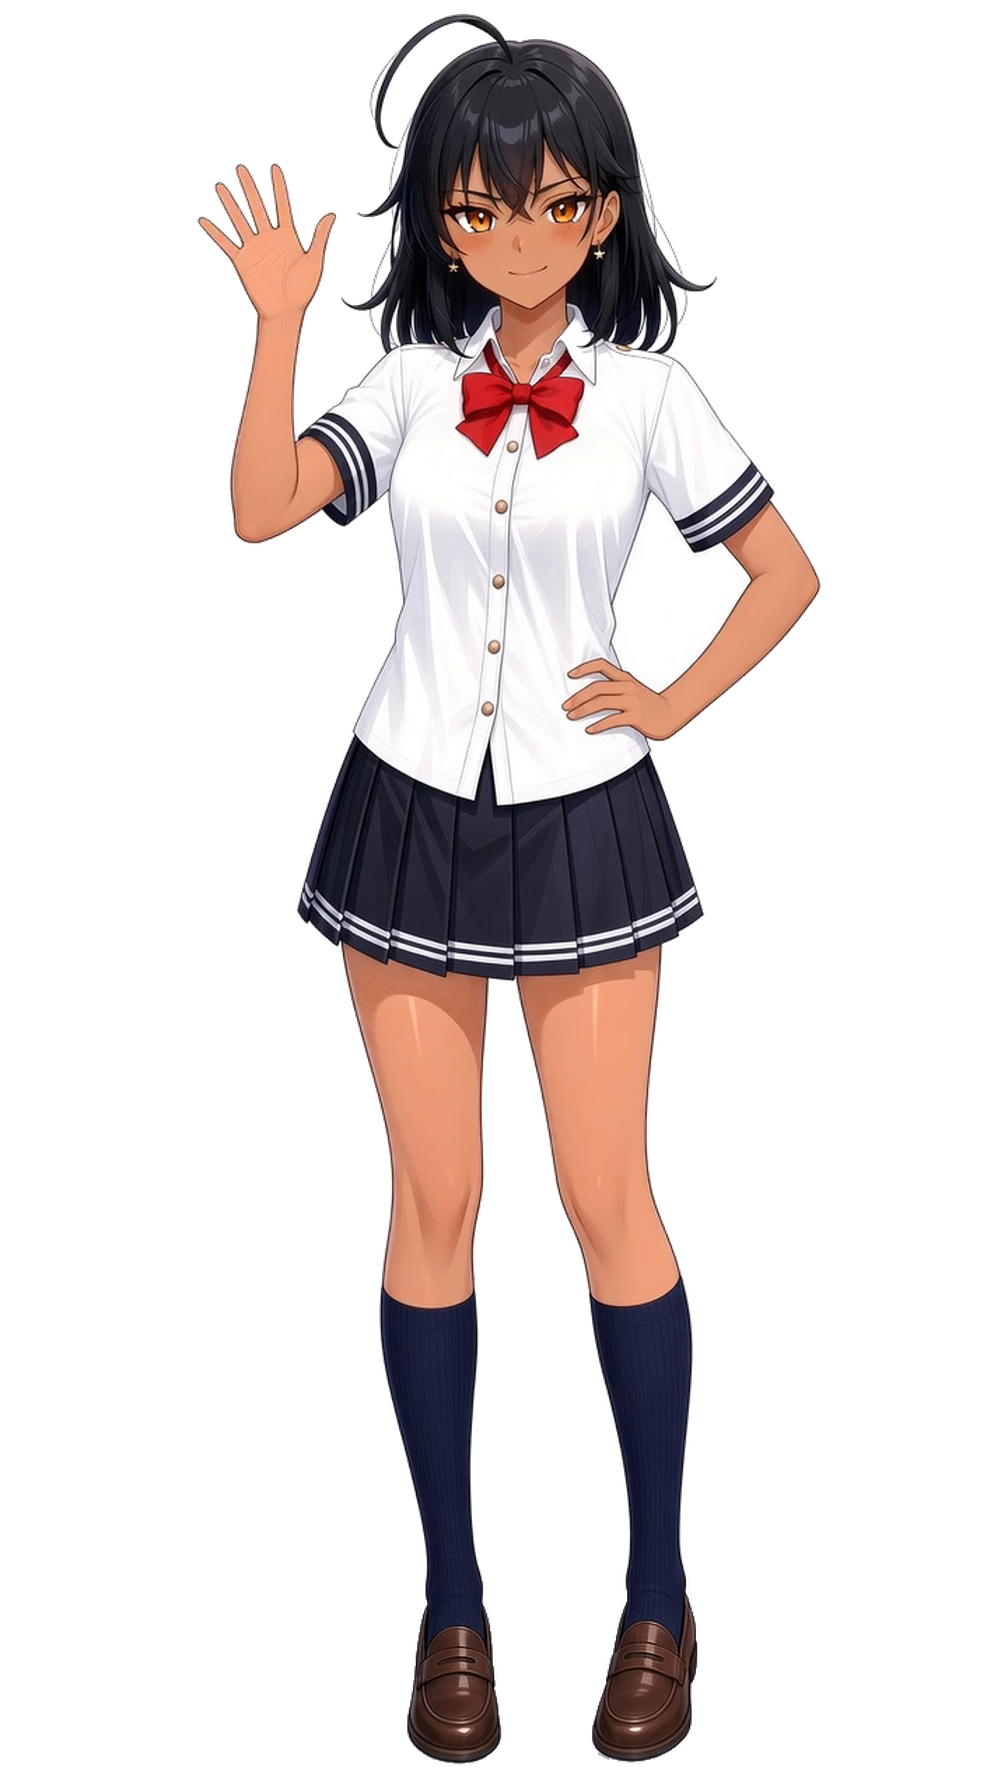
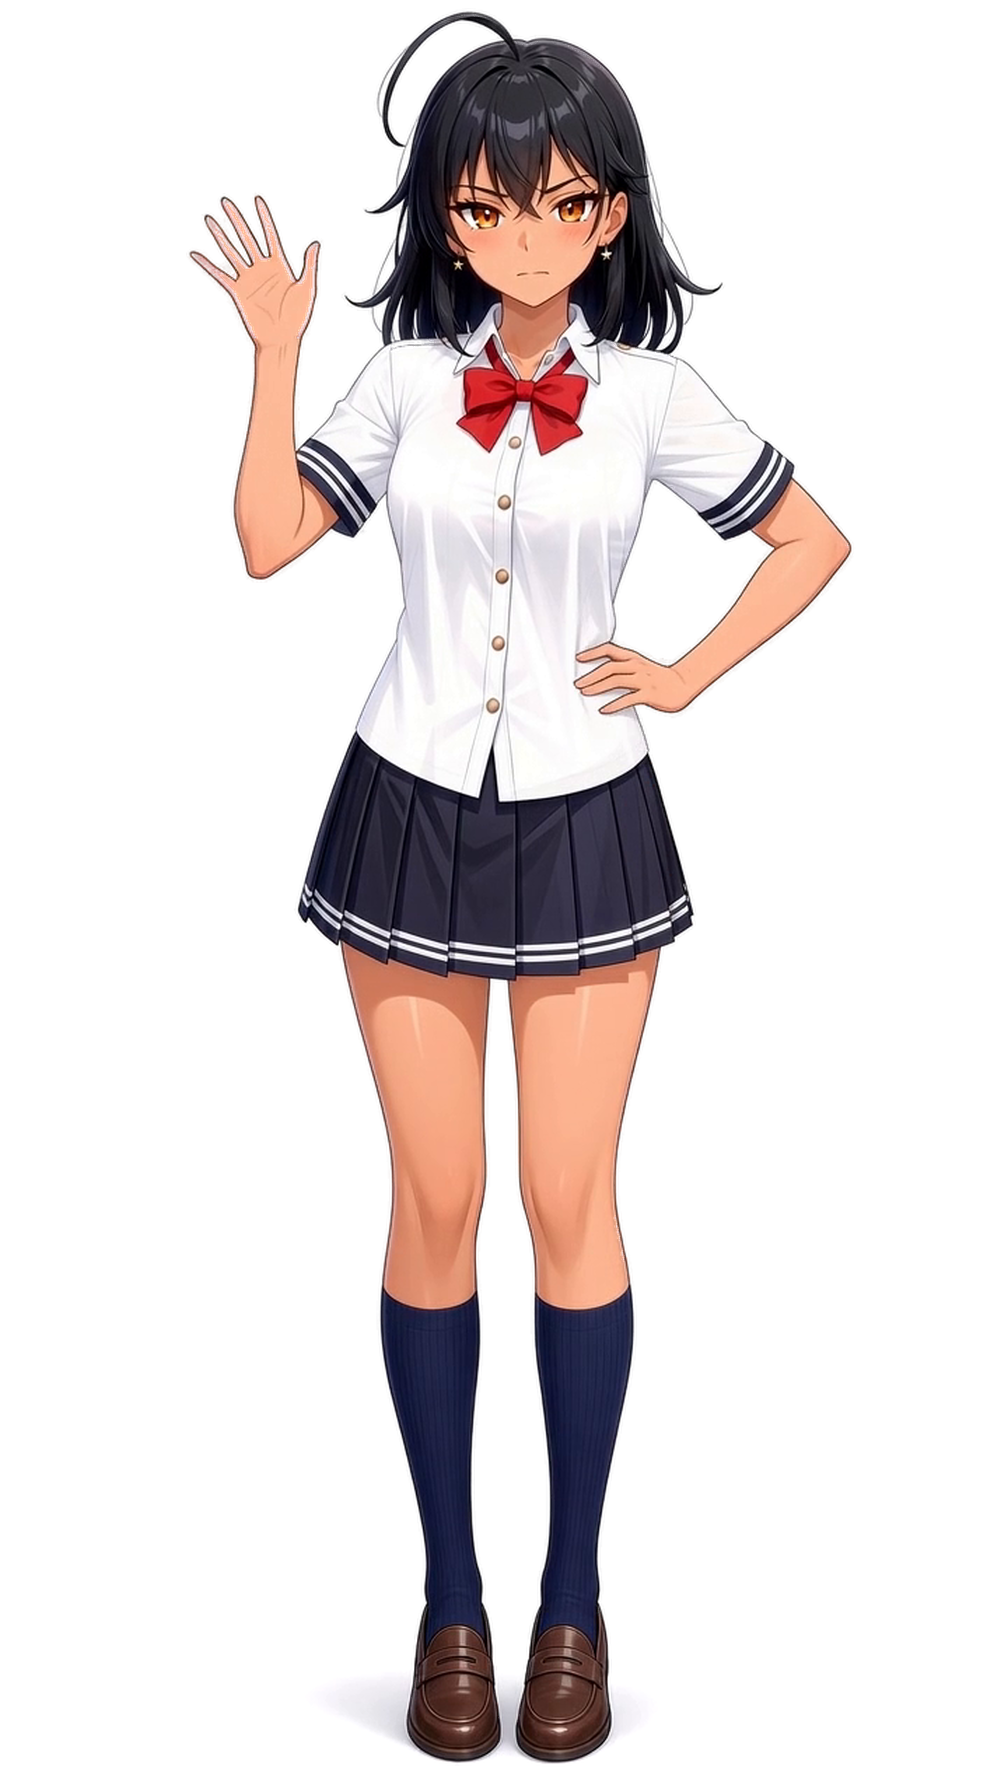
wave_official.png: TyLo's 2026-10-06 wave still (white-matte cut, x1.4 onto idle canvas, no re-tone)
- Replace the retoned dark sheet with TyLo's approved still (right hand waving, left hand on hip,
  glare, sailor uniform). Same white-bg matte as the wave/smug bridge sheets; uniform x1.4
  (720x1280 -> 1008x1792), feet line identical to idle.png (sole/shoes/feet x deltas 0).
- Pre-cut list + sha pin (versioned ?v=rgba3 URL, no runtime punch). Not on the Wave key:
  the key stays the 1110/1114 video bridge + wave1110_hold.webp (unchanged).
- retone-wave-official.py refuses to run without --force so it cannot re-colour the still.
- POSING.md / README updated.

diff --git a/src/lib/pre-cut-alpha.test.ts b/src/lib/pre-cut-alpha.test.ts
@@ -104,6 +104,8 @@ const POSE_SHEET_SHA256: Record<string, string> = {
   // Smug hold (paste-15): 1085 frame 48 (2.000 s), the last frame of the intro clip.
[2 lines of base64/hex data omitted]
+  // TyLo's 2026-10-06 wave still: white-matte cut, uniform x1.4 to the 1008x1792 idle canvas, no re-tone.
[1 lines of base64/hex data omitted]
 };
 
 /** The two smug clips (paste-15): animated AVIF, AV1 + alpha, 24 fps, no audio; pinned bytes. */
@@ -204,7 +206,7 @@ describe("pre-cut RGBA idle + blink sheets", () => {
   });
 
   it("holds back the sheets whose edges are not chosen yet", () => {
-    for (const file of ["rai/three_quarter.png", "rai/wave_official.png", "star-rai/poses/turn-away.png", "star-rai/point-front.png"]) {
+    for (const file of ["rai/three_quarter.png", "star-rai/poses/turn-away.png", "star-rai/point-front.png"]) {
       assert.equal((PRE_CUT_ALPHA_FILES as readonly string[]).includes(file), false, file);
     }
   });

diff --git a/src/lib/rai.ts b/src/lib/rai.ts
@@ -623,6 +623,9 @@ export const PRE_CUT_ALPHA_FILES = [
   "rai/middle_finger.png",
   "rai/scold_official.png",
   "rai/tired_official.png",
+  // TyLo's 2026-10-06 wave still (white-matte cut, x1.4 onto the idle canvas). Not on the Wave key:
+  // that key is the 1110/1114 bridge + wave1110_hold.webp.
+  "rai/wave_official.png",
   "rai/peace.png",
   "rai/side_profile.png",
   "rai/three_quarter_left.png",

diff --git a/scripts/retone-wave-official.py b/scripts/retone-wave-official.py
@@ -1,5 +1,8 @@
 #!/usr/bin/env python3
-"""Retone official full-body wave skin to the live plate cheek, punch studio white.
+"""SUPERSEDED 2026-10-06: public/rai/wave_official.png is now TyLo's approved still (no re-tone).
+This script refuses to run unless --force is passed, so it cannot re-colour that file.
+
+Retone official full-body wave skin to the live plate cheek, punch studio white.
 
 Source: public/rai/wave_official.png (dark 720×1280 sheet TyLo flagged).
 Tone target: live public/star-rai/poses/wave.png cheek ~ (221, 150, 116).
@@ -356,4 +359,7 @@ def main() -> None:
 
 
 if __name__ == "__main__":
+    import sys
+    if "--force" not in sys.argv:
+        raise SystemExit("wave_official.png is TyLo's 2026-10-06 still; not re-toning (pass --force to override)")
     main()

diff --git a/POSING.md b/POSING.md
@@ -17,7 +17,8 @@ public/
     pout_official.png
     tired_official.png
     smug1085_hold.webp      # smug hold (1085 at 2.000 s); bridge clips: smug1085_in.avif (0-2 s), smug1084_out.avif (full)
-    wave_official.png       # SHIPPING puppet wave (retoned 1008×1792 RGBA). Not poses/wave.png / front_wave.png
+    wave1110_hold.webp      # wave hold (1110 at 2.000 s); bridge clips: wave1110_in.avif (0-2 s), wave1114_out.avif (full)
+    wave_official.png       # TyLo's 2026-10-06 wave still (1008×1792 RGBA, white-matte cut, no re-tone). Not on the Wave key. Not poses/wave.png / front_wave.png
     hold_official.png       # NOT front_hold.png
     embarrassed_official.png
     scold_official.png      # live scold key — scold-front.png stays on disk unused
@@ -55,7 +56,7 @@ Live chat keys use the **morning official pack** under `public/rai/`. Do not poi
 | `pout` | `rai/pout_official.png` |
 | `tired` | `rai/tired_official.png` |
 | `smug` | `rai/smug1085_hold.webp` |
-| `wave` | `rai/wave_official.png` — **shipping PNG puppet body**. Retoned full-body 1008×1792 RGBA (TyLo dark sheet → idle/live cheek ~(221,150,116)). Not `star-rai/poses/wave.png` (Helix 1152×1728 3/4, unused for this key) and not `rai/front_wave.png` (Expo alt). |
+| `wave` | `rai/wave1110_hold.webp` via the idle↔wave 1110/1114 video bridge (1110 0–2.0 s, hold, 1114 out). `rai/wave_official.png` is TyLo's 2026-10-06 still (right hand up waving, left hand on hip, glare, sailor uniform): white-matte cut, uniform ×1.4 onto the 1008×1792 idle canvas, feet line = idle, pixels as supplied (no re-tone). It replaces the old retoned dark sheet and is not painted by the live Wave key. Not `star-rai/poses/wave.png` (Helix 1152×1728 3/4) and not `rai/front_wave.png` (Expo alt). |
 | `hold` | `rai/hold_official.png` |
 | `embarrassed` | `rai/embarrassed_official.png` |
 | `scold` | `rai/scold_official.png` |

diff --git a/README.md b/README.md
@@ -227,7 +227,7 @@ Do not rename keys without a migrator. Document schema bumps here.
 See **[POSING.md](./POSING.md)** for the drop-in guide:
 
 - Morning official pack under `public/rai/` (`*_official.png`, `idle.png`, `peace.png`, `middle_finger.png`, `heart_official.png`)
-- Live key → file table (`wave` → `wave_official.png`, `hold` → `hold_official.png`, `scold` → `scold_official.png`; `kiss` unmapped)
+- Live key → file table (`wave` → 1110/1114 video bridge + `wave1110_hold.webp`; `wave_official.png` is TyLo's 2026-10-06 still, not on the Wave key; `hold` → `hold_official.png`, `scold` → `scold_official.png`; `kiss` unmapped)
 - Kept as-today: `turn`, `profile`, `three_quarter_left`, `three_quarter_right`; Helix extra `point` → `point-front.png`
 - Voice card (`artifacts/star-rai-voice-card.txt`) is baked into `RAI_SYSTEM` at sync/build (`scripts/sync-star-rai-artifacts.js`); offline fallback is `artifacts/star-rai-local-brain.txt` (pose-keyed lines); memory-slot contract is `artifacts/star-rai-memory-slots.txt` (appended after the voice card on grok-4-latest, filled keys only). Chart v1 SoT is `artifacts/star-chart-v1.txt`. Cheap sky SoT is `artifacts/star-rai-horoscope-cheap.txt` (client-side astronomy-engine). Call mode SoT is `artifacts/star-rai-call-mode.txt`. Clock / NOW SoT is `artifacts/star-rai-clock.txt`. Do not edit `src/lib/generated/star-rai-artifacts.ts` by hand.
 
